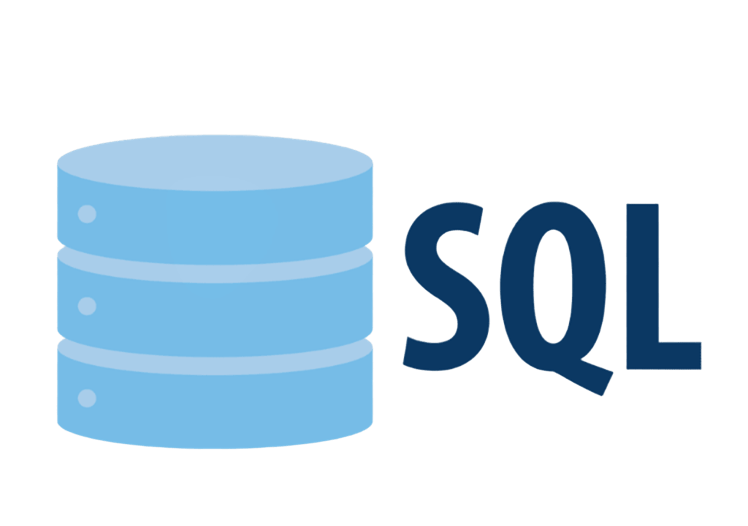
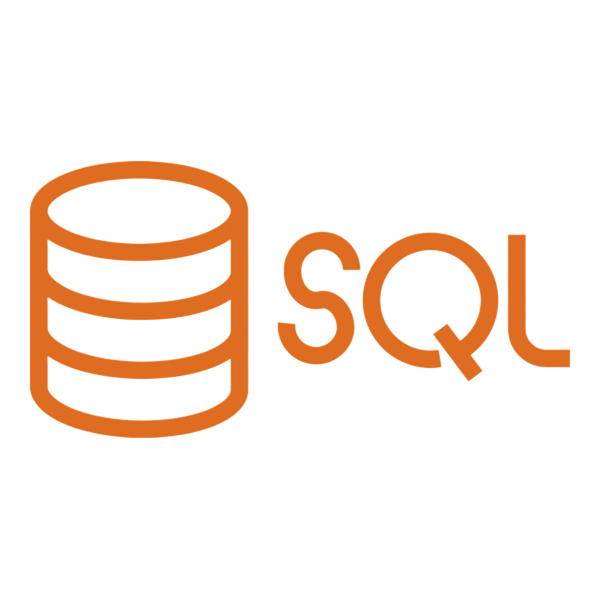
skills

diff --git a/src/sections/Skills.tsx b/src/sections/Skills.tsx
@@ -1,83 +1,305 @@
 import React from 'react';
 import Section from '../components/Section';
-import SkillBar from '../components/SkillBar';
-import Card from '../components/Card';
-import { skills } from '../data/portfolioData';
 
 const Skills: React.FC = () => {
-  const skillCategories = [
-    {
-      title: "Frontend",
-      skills: skills.filter(skill => skill.category === 'frontend'),
-      icon: "🎨",
-      color: "from-accent-blue to-cyan-400"
-    },
-    {
-      title: "Backend",
-      skills: skills.filter(skill => skill.category === 'backend'),
-      icon: "⚙",
-      color: "from-accent-gold to-yellow-400"
-    },
-    {
-      title: "Tools & Tech",
-      skills: skills.filter(skill => skill.category === 'tools'),
-      icon: "🛠",
-      color: "from-green-500 to-emerald-400"
-    },
-    {
-      title: "Languages",
-      skills: skills.filter(skill => skill.category === 'language'),
-      icon: "💻",
-      color: "from-orange-500 to-red-400"
-    }
+  // Define all technologies with their connections (neural network nodes)
+  const technologies = [
+    // MAIN NODES - Closer together and closer to center
+    { name: 'Python', image: '/images/python.png', x: 45, y: 45, size: 'large', layer: 'core' },      // Index 0
+    { name: 'JavaScript', image: '/images/javascript.png', x: 55, y: 45, size: 'large', layer: 'core' }, // Index 1
+    { name: 'Database', image: '/images/database.png', x: 50, y: 35, size: 'large', layer: 'core' },  // Index 2
+    
+    // PYTHON ECOSYSTEM (LEFT SIDE) - Connected to Python
+    { name: 'TensorFlow', image: '/images/tensorflow.png', x: 20, y: 20, size: 'medium', layer: 'left' },    // Index 3
+    { name: 'PyTorch', image: '/images/pytorch.png', x: 15, y: 35, size: 'medium', layer: 'left' },           // Index 4
+    { name: 'Matplotlib', image: '/images/matplotlib.png', x: 20, y: 50, size: 'medium', layer: 'left' },    // Index 5
+    { name: 'Flask', image: '/images/Flask.png', x: 15, y: 65, size: 'medium', layer: 'left' },               // Index 6
+    { name: 'Pandas', image: '/images/pandas.png', x: 25, y: 75, size: 'medium', layer: 'left' },            // Index 7
+    { name: 'Sklearn', image: '/images/sklearn.jpg', x: 10, y: 55, size: 'medium', layer: 'left' },           // Index 8
+    { name: 'Jupyter', image: '/images/jupyter.png', x: 25, y: 30, size: 'medium', layer: 'left' },          // Index 9
+    
+    // JAVASCRIPT ECOSYSTEM (RIGHT SIDE) - Connected to JavaScript
+    { name: 'TypeScript', image: '/images/Typescript.png', x: 80, y: 30, size: 'medium', layer: 'right' },   // Index 10
+    { name: 'HTML', image: '/images/HTML.png', x: 85, y: 50, size: 'medium', layer: 'right' },               // Index 11
+    { name: 'CSS', image: '/images/CSS.png', x: 80, y: 70, size: 'medium', layer: 'right' },                 // Index 12
+    
+    // DATABASE ECOSYSTEM (TOP) - Connected to Database node
+    { name: 'SQL', image: '/images/sql.png', x: 40, y: 10, size: 'medium', layer: 'top' },                    // Index 13
+    { name: 'PostgreSQL', image: '/images/postgresql.png', x: 50, y: 8, size: 'medium', layer: 'top' },      // Index 14
+    { name: 'MongoDB', image: '/images/mongodb.png', x: 60, y: 10, size: 'medium', layer: 'top' },            // Index 15
+    
+    // BOTTOM NODES (LONELY) - No connections to main nodes
+    { name: 'C', image: '/images/C.png', x: 35, y: 85, size: 'medium', layer: 'bottom' },                    // Index 16
+    { name: 'C++', image: '/images/CPP.png', x: 50, y: 85, size: 'medium', layer: 'bottom' },                // Index 17
+    { name: 'Git', image: '/images/git.png', x: 65, y: 85, size: 'medium', layer: 'bottom' },                // Index 18
   ];
+
+  // Define connections between nodes (neural network synapses)
+  // Only connections between main nodes and from main nodes to their ecosystems
+  const connections = [
+    // PYTHON CONNECTIONS (Index 0) - To left side technologies
+    { from: 0, to: 3, strength: 'strong' },  // Python -> TensorFlow
+    { from: 0, to: 4, strength: 'strong' },  // Python -> PyTorch
+    { from: 0, to: 5, strength: 'strong' },  // Python -> Matplotlib
+    { from: 0, to: 6, strength: 'strong' },  // Python -> Flask
+    { from: 0, to: 7, strength: 'strong' },  // Python -> Pandas
+    { from: 0, to: 8, strength: 'strong' },  // Python -> Sklearn
+    { from: 0, to: 9, strength: 'strong' },  // Python -> Jupyter
+    
+    // JAVASCRIPT CONNECTIONS (Index 1) - To right side technologies
+    { from: 1, to: 10, strength: 'strong' }, // JavaScript -> TypeScript
+    { from: 1, to: 11, strength: 'strong' }, // JavaScript -> HTML
+    { from: 1, to: 12, strength: 'strong' }, // JavaScript -> CSS
+    
+    // DATABASE CONNECTIONS (Index 2) - To top technologies
+    { from: 2, to: 13, strength: 'strong' }, // Database -> SQL
+    { from: 2, to: 14, strength: 'strong' }, // Database -> PostgreSQL
+    { from: 2, to: 15, strength: 'strong' }, // Database -> MongoDB
+    
+    // MAIN NODE CONNECTIONS ONLY (Triangle formation)
+    { from: 0, to: 1, strength: 'strong' },  // Python <-> JavaScript
+    { from: 0, to: 2, strength: 'strong' },  // Python <-> Database
+    { from: 1, to: 2, strength: 'strong' },  // JavaScript <-> Database
+    
+    // BOTTOM LONELY NODES - Only connected to each other (keeping these as requested)
+    { from: 16, to: 17, strength: 'medium' }, // C <-> C++
+    { from: 17, to: 18, strength: 'medium' }, // C++ <-> Git
+    { from: 16, to: 18, strength: 'weak' },   // C <-> Git
+  ];
+
+  const getSizeClasses = (size: string) => {
+    switch(size) {
+      case 'large': return 'w-16 h-16 md:w-20 md:h-20 border-2'; // Reduced from w-20/w-24
+      case 'medium': return 'w-12 h-12 md:w-16 md:h-16 border-2'; // Reduced from w-16/w-20
+      case 'small': return 'w-10 h-10 md:w-14 md:h-14 border-2'; // Reduced from w-12/w-16
+      default: return 'w-12 h-12 md:w-16 md:h-16 border-2';
+    }
+  };
+
+  const getConnectionOpacity = (strength: string) => {
+    switch(strength) {
+      case 'strong': return 'opacity-60';
+      case 'medium': return 'opacity-40';
+      case 'weak': return 'opacity-20';
+      default: return 'opacity-30';
+    }
+  };
 
   return (
     <Section id="skills" title="Skills" subtitle="Technical Expertise">
-      <div className="grid md:grid-cols-2 gap-8">
-        {skillCategories.map((category, index) => (
-          <Card key={index} glowEffect>
-            <div className="flex items-center space-x-4 mb-6">
-              <div className={`relative w-14 h-14 rounded-lg bg-gradient-to-br ${category.color} flex items-center justify-center rotate-45`}>
-                <span className="text-2xl -rotate-45">{category.icon}</span>
-                <div className={`absolute inset-0 rounded-lg bg-gradient-to-br ${category.color} blur-lg opacity-50`}></div>
-              </div>
-              <div>
-                <h3 className="font-orbitron text-xl font-bold">{category.title}</h3>
-                <p className="text-sm text-gray-400 font-rajdhani">
-                  {category.skills.length} skills
-                </p>
-              </div>
-            </div>
-            
-            <div className="space-y-4">
-              {category.skills.map((skill) => (
-                <SkillBar key={skill.id} skill={skill} />
-              ))}
-            </div>
-          </Card>
-        ))}
+      {/* Section Description */}
+      <div className="max-w-3xl mx-auto text-center mb-16">
+        <p className="text-lg text-gray-300 font-rajdhani">
+          My technical expertise spans across multiple domains, forming an interconnected neural network of skills.
+          Each technology strengthens and complements the others, enabling me to build comprehensive solutions.
+        </p>
       </div>
-      
-      {/* Additional Skills */}
-      <div className="mt-12">
-        <Card glowEffect>
-          <h3 className="font-orbitron text-xl font-bold mb-6">Additional Skills</h3>
-          <div className="flex flex-wrap gap-3">
-            {[
-              "Agile/Scrum", "REST APIs", "GraphQL", "Microservices", 
-              "CI/CD", "Testing", "Performance Optimization", "Responsive Design",
-              "UI/UX Principles", "Git Workflow", "Linux", "Cloud Architecture"
-            ].map((skill, index) => (
-              <span
-                key={index}
-                className="px-5 py-2.5 bg-white/5 rounded-lg text-sm font-rajdhani font-semibold hover:bg-white/10 border border-white/10 hover:border-accent-gold/30 hover:text-accent-gold transition-all"
+
+      {/* Neural Network Visualization */}
+      <div className="relative w-full max-w-6xl mx-auto" style={{ minHeight: '700px' }}>
+        {/* SVG for connection lines */}
+        <svg 
+          className="absolute inset-0 w-full h-full pointer-events-none z-0"
+          style={{ minHeight: '700px' }}
+        >
+          <defs>
+            {/* Gradient for connections */}
+            <linearGradient id="connectionGradient" x1="0%" y1="0%" x2="100%" y2="0%">
+              <stop offset="0%" style={{ stopColor: '#f97316', stopOpacity: 0.5 }} />
+              <stop offset="50%" style={{ stopColor: '#22d3ee', stopOpacity: 0.5 }} />
+              <stop offset="100%" style={{ stopColor: '#f97316', stopOpacity: 0.5 }} />
+            </linearGradient>
+            
+            {/* Animated gradient */}
+            <linearGradient id="animatedGradient" x1="0%" y1="0%" x2="100%" y2="0%">
+              <stop offset="0%" style={{ stopColor: '#f97316', stopOpacity: 0.8 }}>
+                <animate attributeName="stop-color" 
+                  values="#f97316; #22d3ee; #f97316" 
+                  dur="4s" 
+                  repeatCount="indefinite" />
+              </stop>
+              <stop offset="100%" style={{ stopColor: '#22d3ee', stopOpacity: 0.8 }}>
+                <animate attributeName="stop-color" 
+                  values="#22d3ee; #f97316; #22d3ee" 
+                  dur="4s" 
+                  repeatCount="indefinite" />
+              </stop>
+            </linearGradient>
+          </defs>
+          
+          {/* Draw all connections */}
+          {connections.map((conn, index) => {
+            const fromTech = technologies[conn.from];
+            const toTech = technologies[conn.to];
+            
+            return (
+              <g key={index}>
+                {/* Background glow */}
+                <line
+                  x1={`${fromTech.x}%`}
+                  y1={`${fromTech.y}%`}
+                  x2={`${toTech.x}%`}
+                  y2={`${toTech.y}%`}
+                  stroke="url(#connectionGradient)"
+                  strokeWidth="3"
+                  className={`${getConnectionOpacity(conn.strength)} blur-sm`}
+                  style={{
+                    filter: 'drop-shadow(0 0 4px rgba(249, 115, 22, 0.4))'
+                  }}
+                />
+                
+                {/* Main line */}
+                <line
+                  x1={`${fromTech.x}%`}
+                  y1={`${fromTech.y}%`}
+                  x2={`${toTech.x}%`}
+                  y2={`${toTech.y}%`}
+                  stroke="url(#animatedGradient)"
+                  strokeWidth="2"
+                  className={getConnectionOpacity(conn.strength)}
+                  strokeDasharray="5,5"
+                >
+                  <animate
+                    attributeName="stroke-dashoffset"
+                    from="0"
+                    to="10"
+                    dur="1s"
+                    repeatCount="indefinite"
+                  />
+                </line>
+                
+                {/* Animated pulse */}
+                <circle r="3" fill="#f97316" className={getConnectionOpacity(conn.strength)}>
+                  <animateMotion
+                    dur={`${3 + index * 0.2}s`}
+                    repeatCount="indefinite"
+                    path={`M ${fromTech.x},${fromTech.y} L ${toTech.x},${toTech.y}`}
+                  />
+                </circle>
+              </g>
+            );
+          })}
+        </svg>
+
+        {/* Technology Nodes */}
+        <div className="relative z-10" style={{ minHeight: '700px' }}>
+          {technologies.map((tech, index) => (
+            <div
+              key={tech.name}
+              className="absolute transform -translate-x-1/2 -translate-y-1/2 group cursor-pointer"
+              style={{
+                left: `${tech.x}%`,
+                top: `${tech.y}%`,
+              }}
+            >
+              {/* Outer glow ring - pulsing */}
+              <div 
+                className={`absolute inset-0 ${getSizeClasses(tech.size)} rounded-2xl bg-gradient-to-br from-orange-500/30 to-cyan-500/30 blur-xl opacity-0 group-hover:opacity-100 transition-opacity duration-500 animate-pulse-slow`}
+                style={{ 
+                  transform: 'scale(1.3)', // Reduced from 1.5
+                  animationDelay: `${index * 0.2}s`
+                }}
+              ></div>
+              
+              {/* Main node container - smaller boxes */}
+              <div
+                className={`
+                  relative ${getSizeClasses(tech.size)} 
+                  rounded-xl backdrop-blur-xl  // Changed from rounded-2xl to rounded-xl
+                  border-orange-500/40 
+                  p-1.5 md:p-2.5  // Reduced padding
+                  transition-all duration-500
+                  hover:scale-110 hover:border-orange-500
+                  animate-float
+                `}
+                style={{
+                  background: 'rgba(0, 0, 0, 0.6)',
+                  boxShadow: '0 0 20px rgba(249, 115, 22, 0.3), 0 0 40px rgba(34, 211, 238, 0.2), inset 0 0 10px rgba(249, 115, 22, 0.1)', // Reduced glow
+                  animationDelay: `${index * 0.3}s`,
+                  animationDuration: `${4 + index * 0.2}s`,
+                }}
               >
-                {skill}
-              </span>
-            ))}
+                {/* Inner glow */}
+                <div className="absolute inset-0 rounded-xl bg-gradient-to-br from-orange-500/10 to-cyan-500/10"></div>
+                
+                {/* Tech logo */}
+                <img 
+                  src={tech.image} 
+                  alt={tech.name}
+                  className="relative z-10 w-full h-full object-contain transition-transform duration-500 group-hover:scale-110"
+                  style={{
+                    filter: 'drop-shadow(0 0 8px rgba(249, 115, 22, 0.5))', // Reduced glow
+                  }}
+                />
+                
+                {/* Rotating border effect */}
+                <div className="absolute inset-0 rounded-xl opacity-0 group-hover:opacity-100 transition-opacity duration-500">
+                  <div className="absolute inset-0 rounded-xl border-2 border-orange-500/50 animate-spin-slow"></div>
+                </div>
+              </div>
+              
+              {/* Label */}
+              <div className="absolute -bottom-6 left-1/2 transform -translate-x-1/2 opacity-0 group-hover:opacity-100 transition-all duration-300 z-50">
+                <div className="px-2 py-0.5 rounded-lg bg-black/90 backdrop-blur-xl border border-orange-500/30 whitespace-nowrap">
+                  <span className="text-xs font-bold text-orange-400 font-space-mono">{tech.name}</span>
+                </div>
+              </div>
+              
+              {/* Neural pulse effect on hover */}
+              <div className="absolute inset-0 rounded-xl opacity-0 group-hover:opacity-100 transition-opacity pointer-events-none">
+                <div className="absolute inset-0 rounded-xl border-2 border-orange-500 animate-ping"></div>
+              </div>
+            </div>
+          ))}
+        </div>
+      </div>
+
+      {/* Skill Categories Legend */}
+      <div className="mt-20 grid md:grid-cols-3 gap-6 max-w-4xl mx-auto">
+        <div className="group relative">
+          <div className="absolute inset-0 bg-gradient-to-br from-orange-500/20 to-transparent rounded-xl blur-xl opacity-0 group-hover:opacity-100 transition-opacity"></div>
+          <div className="relative glass-morphism rounded-xl p-6 border border-orange-500/20 hover:border-orange-500/40 transition-all">
+            <div className="flex items-center space-x-3 mb-3">
+              <div className="w-10 h-10 rounded-lg bg-gradient-to-br from-orange-500/20 to-orange-500/10 flex items-center justify-center border border-orange-500/30">
+                <i className="fas fa-brain text-orange-400"></i>
+              </div>
+              <h4 className="font-orbitron font-bold text-lg">AI & ML</h4>
+            </div>
+            <p className="text-sm text-gray-400 font-rajdhani">
+              Machine Learning, Deep Learning, and Data Science
+            </p>
           </div>
-        </Card>
+        </div>
+
+        <div className="group relative">
+          <div className="absolute inset-0 bg-gradient-to-br from-cyan-500/20 to-transparent rounded-xl blur-xl opacity-0 group-hover:opacity-100 transition-opacity"></div>
+          <div className="relative glass-morphism rounded-xl p-6 border border-cyan-500/20 hover:border-cyan-500/40 transition-all">
+            <div className="flex items-center space-x-3 mb-3">
+              <div className="w-10 h-10 rounded-lg bg-gradient-to-br from-cyan-500/20 to-cyan-500/10 flex items-center justify-center border border-cyan-500/30">
+                <i className="fas fa-code text-cyan-400"></i>
+              </div>
+              <h4 className="font-orbitron font-bold text-lg">Development</h4>
+            </div>
+            <p className="text-sm text-gray-400 font-rajdhani">
+              Full-Stack Web Development and Software Engineering
+            </p>
+          </div>
+        </div>
+
+        <div className="group relative">
+          <div className="absolute inset-0 bg-gradient-to-br from-orange-500/20 to-cyan-500/20 rounded-xl blur-xl opacity-0 group-hover:opacity-100 transition-opacity"></div>
+          <div className="relative glass-morphism rounded-xl p-6 border border-orange-500/20 hover:border-cyan-500/40 transition-all">
+            <div className="flex items-center space-x-3 mb-3">
+              <div className="w-10 h-10 rounded-lg bg-gradient-to-br from-orange-500/20 to-cyan-500/20 flex items-center justify-center border border-orange-500/30">
+                <i className="fas fa-database text-orange-400"></i>
+              </div>
+              <h4 className="font-orbitron font-bold text-lg">Data & Tools</h4>
+            </div>
+            <p className="text-sm text-gray-400 font-rajdhani">
+              Databases, DevOps, and Development Tools
+            </p>
+          </div>
+        </div>
       </div>
     </Section>
   );

diff --git a/src/components/Hero.tsx b/src/components/Hero.tsx
@@ -11,9 +11,9 @@ const Hero: React.FC = () => {
     { name: 'git', image: '/images/git.png', delay: 1, position: 'top-1/3 left-10', rotate: 'animate-spin-slow' },
     { name: 'Tensorflow', image: '/images/tensorflow.png', delay: 1.5, position: 'bottom-1/3 left-5', rotate: 'animate-spin-slow' },
     { name: 'C', image: '/images/C.png', delay: 2, position: 'bottom-1/4 right-12', rotate: 'animate-spin-slow' },
-    { name: ' Flask', image: '/images/Flask.png', delay: 2.5, position: 'top-1/2 right-2', rotate: 'animate-spin-slow' },
+    { name: ' CPP', image: '/images/CPP.png', delay: 2.5, position: 'top-1/2 right-2', rotate: 'animate-spin-slow' },
     { name: 'TypeScript', image: '/images/Typescript.png', delay: 3, position: 'top-20 left-12', rotate: 'animate-spin-slow' },
-    { name: 'SQL', image: '/images/SQL.png', delay: 3.5, position: 'bottom-20 left-8', rotate: 'animate-spin-slow' },
+    { name: 'SQL', image: '/images/sql.png', delay: 3.5, position: 'bottom-20 left-8', rotate: 'animate-spin-slow' },
     ];
 
   return (
